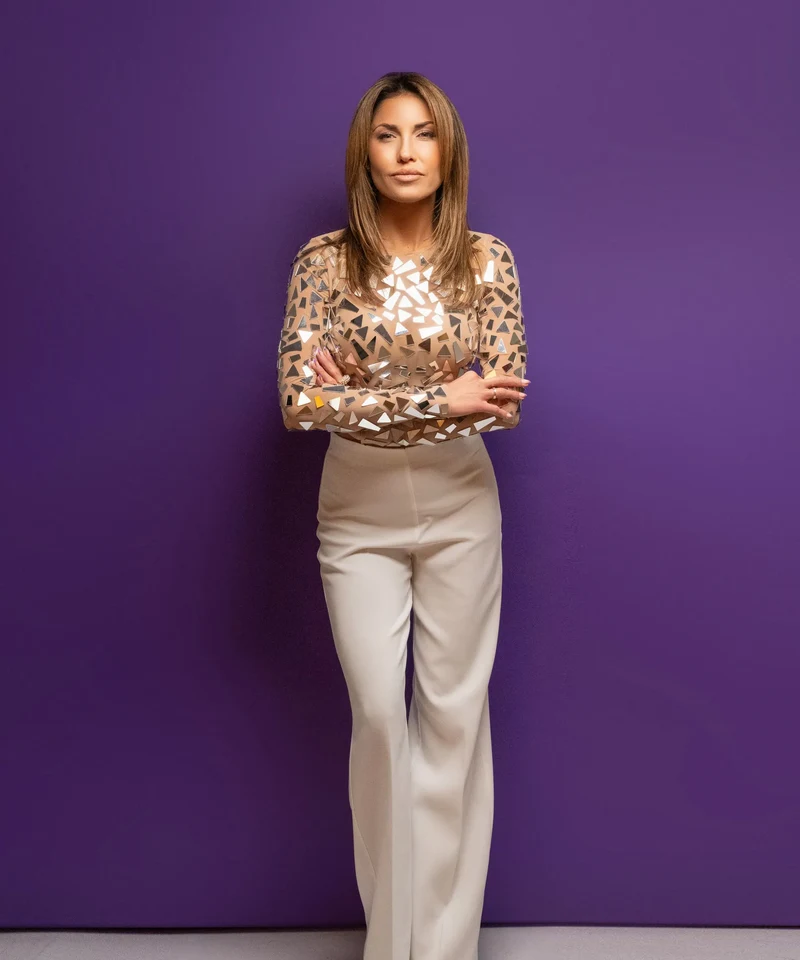
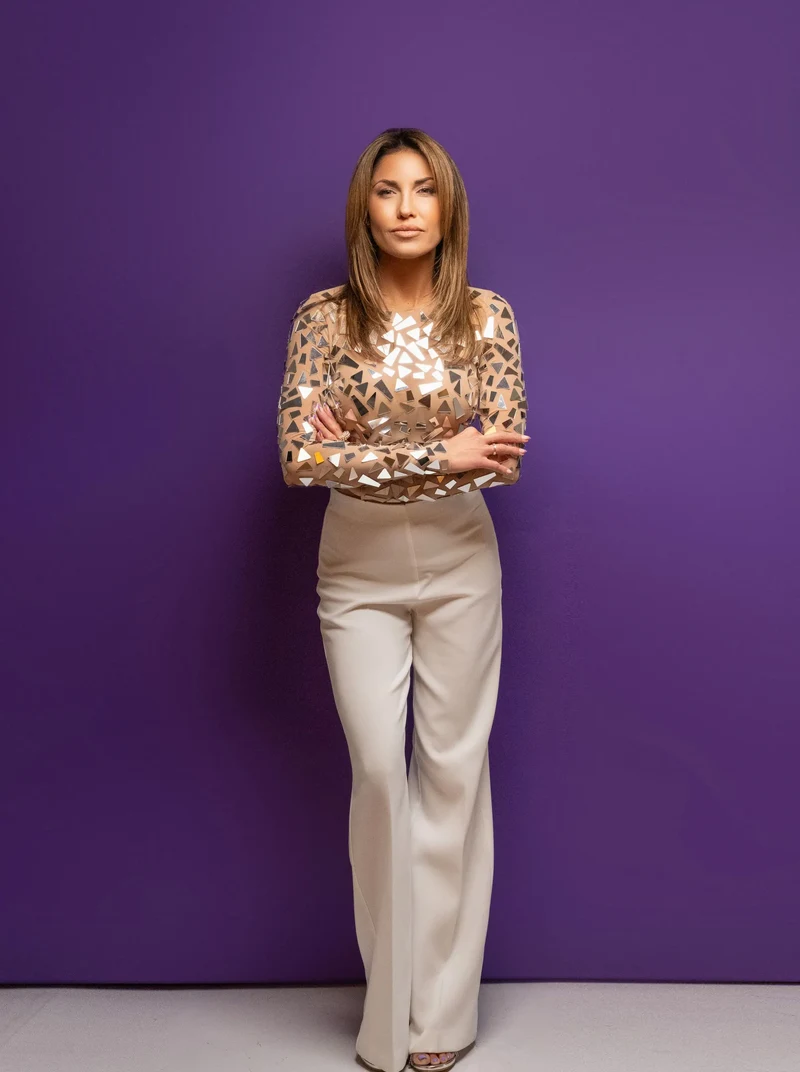
Refine evaluation results and responsive email

Changed region(s): [[0.375, 0.5312, 1.0, 1.0], [0.3438, 0.0625, 0.6562, 0.4688], [0.0, 0.8125, 0.4688, 1.0]]

diff --git a/src/lib/resultsEmailTemplate.ts b/src/lib/resultsEmailTemplate.ts
@@ -112,6 +112,9 @@ function sectionDetailHtml(section: EvaluatedSection, accentColor: string) {
   return `<table role="presentation" width="100%" cellpadding="0" cellspacing="0" style="margin-top:16px;border:1px solid #e3e0e5;border-radius:12px;background:#ffffff;box-shadow:0 12px 28px rgba(34,18,51,.1)">
     <tr>
       <td style="padding:20px 20px 16px;border-bottom:1px solid #eeeaf0">
+        <div class="mobile-section-badge" style="display:none;margin:0 0 16px;text-align:center">
+          <span style="display:inline-block;padding:7px 12px;border-radius:8px;background:${theme.background};color:${theme.color};font-size:10px;font-weight:700;letter-spacing:.04em;text-transform:uppercase">${escapeHtml(label)}</span>
+        </div>
         <table role="presentation" width="100%" cellpadding="0" cellspacing="0">
           <tr>
             <td width="52" valign="top" style="width:52px;padding-top:2px;vertical-align:top">
@@ -121,7 +124,7 @@ function sectionDetailHtml(section: EvaluatedSection, accentColor: string) {
               <h4 style="margin:0;color:#33185c;font-size:20px;font-weight:600;line-height:1.3">${escapeHtml(section.name)}</h4>
               <p style="margin:5px 0 0;color:#544b5a;font-size:14px;line-height:1.65">${escapeHtml(detailedSectionReminder[section.key])}</p>
             </td>
-            <td valign="top" style="width:1%;padding-left:12px;vertical-align:top;white-space:nowrap">
+            <td class="desktop-section-badge" valign="top" style="width:1%;padding-left:12px;vertical-align:top;white-space:nowrap">
               <span style="display:inline-block;padding:7px 10px;border-radius:8px;background:${theme.background};color:${theme.color};font-size:10px;font-weight:700;letter-spacing:.04em;text-transform:uppercase">${escapeHtml(label)}</span>
             </td>
           </tr>
@@ -288,7 +291,7 @@ function tapInBlockHtml(tapInUrl: string) {
 }
 
 function strategyBlockHtml(strategyUrl: string, portraitUrl: string) {
-  return `<table role="presentation" width="100%" cellpadding="0" cellspacing="0" style="margin-top:42px;background:#ffffff;box-shadow:0 14px 36px rgba(34,18,51,.16)">
+  return `<table role="presentation" width="100%" cellpadding="0" cellspacing="0" style="width:100%;table-layout:fixed;margin-top:42px;background:#ffffff;box-shadow:0 14px 36px rgba(34,18,51,.16)">
     <tr>
       <td class="strategy-copy" width="50%" valign="middle" style="width:50%;vertical-align:middle;text-align:left">
         <table role="presentation" width="100%" cellpadding="0" cellspacing="0">
@@ -304,8 +307,8 @@ function strategyBlockHtml(strategyUrl: string, portraitUrl: string) {
           </tr>
         </table>
       </td>
-      <td class="strategy-image" width="50%" valign="middle" background="${portraitUrl}" style="width:50%;vertical-align:middle;overflow:hidden;background-color:#321c58;background-image:url('${portraitUrl}');background-position:center;background-repeat:no-repeat;background-size:cover">
-        <img src="${portraitUrl}" width="340" height="440" alt="Ecko Marketing strategist" style="display:block;width:100%;max-width:none;height:100%;min-height:100%;object-fit:cover;object-position:center;border:0;outline:none;text-decoration:none" />
+      <td class="strategy-image" width="50%" valign="middle" align="center" style="width:50%;vertical-align:middle;text-align:center;overflow:hidden;background:#321c58">
+        <img src="${portraitUrl}" width="340" alt="Ecko Marketing strategist" style="display:inline-block;width:100%;max-width:none;height:auto;vertical-align:top;border:0;outline:none;text-decoration:none" />
       </td>
     </tr>
   </table>`;
@@ -404,9 +407,11 @@ export function buildResultsEmailHtml({
     <title>Your Full Marketing Pulse Evaluation</title>
     <style type="text/css">
       @import url('https://fonts.googleapis.com/css2?family=DM+Sans:wght@400;500;600;700&amp;family=Poppins:wght@400;500;600;700&amp;display=swap');
+      .strategy-image img { width:100% !important; max-width:100% !important; height:auto !important; }
       @media only screen and (max-width: 560px) {
         .strategy-copy, .strategy-image { display:block !important; width:100% !important; }
-        .strategy-image img { max-width:100% !important; height:auto !important; }
+        .mobile-section-badge { display:block !important; }
+        .desktop-section-badge { display:none !important; }
       }
     </style>
   </head>

diff --git a/src/app/ResultsPage.tsx b/src/app/ResultsPage.tsx
@@ -198,6 +198,7 @@ export default function ResultsPage({
   const [copiedEvaluationLink, setCopiedEvaluationLink] = useState(false);
   const [showSocialMenu, setShowSocialMenu] = useState(false);
   const [showFullResultsModal, setShowFullResultsModal] = useState(false);
+  const [fullResultsModalView, setFullResultsModalView] = useState<"form" | "confirmation">("form");
   const socialMenuRef = useRef<HTMLDivElement>(null);
 
   async function submitFullResults(event: React.FormEvent<HTMLFormElement>) {
@@ -231,6 +232,7 @@ export default function ResultsPage({
       const result = (await response.json()) as { error?: string };
       if (!response.ok) throw new Error(result.error || "Unable to send results.");
       setSubmitted(true);
+      setFullResultsModalView("confirmation");
       setShowFullResultsModal(true);
     } catch (error) {
       setSubmitError(
@@ -326,7 +328,11 @@ export default function ResultsPage({
     ];
     const evaluationShareCopy =
       "Take the Ecko Marketing Pulse Evaluation—a quick check-in to see what's working, what's building momentum, and what could use a little love.";
-    const openFullResultsModal = () => setShowFullResultsModal(true);
+    const openFullResultsModal = () => {
+      setFullResultsModalView("form");
+      setSubmitError("");
+      setShowFullResultsModal(true);
+    };
     const copyEvaluationLink = async () => {
       const shareUrl = new URL(window.location.href);
       shareUrl.search = "";
@@ -339,7 +345,11 @@ export default function ResultsPage({
       <main className="questionnaire-page results-page-minimal results-page-compact">
         <div className="results-content">
           <header className="results-header">
-            <h1>Good News: Your Marketing Has a Pulse!</h1>
+            <h1>
+              <span className="results-header__gold">Good News:</span>
+              <br />
+              Your Marketing Has a Pulse!
+            </h1>
           </header>
 
           <PulseGlanceCard counts={counts} />
@@ -603,7 +613,7 @@ export default function ResultsPage({
                     src="/images/ecko-marketing-logo.png"
                     alt="Ecko Marketing"
                   />
-                  {submitted ? (
+                  {fullResultsModalView === "confirmation" ? (
                     <div className="results-full-results-modal__confirmation" role="status">
                       <header>
                         <h2 id="full-results-modal-title">Your Full Evaluation Is on Its Way</h2>
@@ -625,7 +635,7 @@ export default function ResultsPage({
                       </a>
                     </div>
                   ) : (
-                    <>
+                    <div className="results-full-results-modal__form-view">
                       <header>
                         <h2 id="full-results-modal-title">See Your Full Evaluation</h2>
                       </header>
@@ -641,7 +651,7 @@ export default function ResultsPage({
                         <button className="questionnaire__continue" type="submit" disabled={submitting}>{submitting ? "Sending…" : "Email My Results"}</button>
                         {submitError && <p className="results-email-minimal__error" role="alert">{submitError}</p>}
                       </form>
-                    </>
+                    </div>
                   )}
                 </div>
                 <figure className="results-full-results-modal__portrait">
@@ -678,7 +688,11 @@ export default function ResultsPage({
       <div className="results-content">
         <header className="results-header">
           <p className="questionnaire__meta">Results</p>
-          <h1>Good News: Your Marketing Has a Pulse</h1>
+          <h1>
+            <span className="results-header__gold">Good News:</span>
+            <br />
+            Your Marketing Has a Pulse!
+          </h1>
           <p>
             A quick look at what&apos;s clicking, where there may be room to grow,
             and what your results could mean for your marketing right now.

diff --git a/src/app/V2EvaluationPage.tsx b/src/app/V2EvaluationPage.tsx
@@ -39,6 +39,7 @@ function QuestionVideo({
     if (!video) return;
     if (!active) {
       video.pause();
+      video.muted = true;
       return;
     }
 
@@ -145,7 +146,7 @@ function QuestionVideo({
   );
 }
 
-function VideoRail() {
+function VideoRail({ playbackEnabled }: { playbackEnabled: boolean }) {
   const [activeQuestion, setActiveQuestion] = useState(1);
   const [transitionPhase, setTransitionPhase] = useState<"idle" | "out" | "in">("idle");
   const [resultsPosition, setResultsPosition] = useState<CSSProperties | undefined>();
@@ -255,7 +256,7 @@ function VideoRail() {
                   src={video.src}
                   poster={video.poster}
                   questionId={videoId}
-                  active={activeQuestion === videoId}
+                  active={playbackEnabled && activeQuestion === videoId}
                 />
               ) : (
                 <span className="v2-video-card__media" aria-hidden="true">
@@ -279,9 +280,9 @@ function EvaluationIntro({ onStart }: { onStart: () => void }) {
         <div className="v2-evaluation-intro__heading">
           <div>
             <h1 id="evaluation-intro-title" className="questionnaire__title">
-              The Ecko
+              <span className="v2-evaluation-intro__title-dark">The Ecko</span>
               <br />
-              Marketing Pulse
+              <span className="v2-evaluation-intro__title-purple">Marketing Pulse</span>
               <br />
               <span className="v2-evaluation-intro__title-gold">Evaluation.</span>
             </h1>
@@ -367,7 +368,7 @@ export default function V2EvaluationPage() {
       <div
         className={`v2-evaluation-layout${showVideo ? "" : " v2-evaluation-layout--question-only"}`}
       >
-        <VideoRail />
+        <VideoRail playbackEnabled={showVideo} />
         <div className="v2-question-panel">
           {hasStarted ? (
             <Questionnaire

diff --git a/src/app/globals.css b/src/app/globals.css
@@ -800,7 +800,7 @@ body {
 }
 
 .questionnaire__title-highlight {
-  color: #33185c;
+  color: #c39f5b;
 }
 
 .questionnaire__instruction {
@@ -1818,6 +1818,14 @@ body {
   color: #c39f5b;
 }
 
+.v2-evaluation-intro__title-purple {
+  color: #7c4d9e;
+}
+
+.v2-evaluation-intro__title-dark {
+  color: #7c4d9e;
+}
+
 .v2-evaluation-intro__card {
   margin-top: 26px;
 }
@@ -2483,6 +2491,10 @@ body {
   line-height: 1.28;
 }
 
+.results-header__gold {
+  color: #c39f5b;
+}
+
 .results-header > p:not(.questionnaire__meta) {
   max-width: 620px;
   margin: 20px auto 0;
@@ -2524,7 +2536,7 @@ body {
 }
 
 .results-glance {
-  margin-top: 42px;
+  margin-top: 28px;
 }
 
 .results-glance-card {
@@ -3840,6 +3852,16 @@ body {
   text-align: center;
 }
 
+@media (min-width: 600px) {
+  .results-full-results-modal__confirmation {
+    margin-top: 90px;
+  }
+
+  .results-full-results-modal__form-view {
+    margin-top: 54px;
+  }
+}
+
 .results-full-results-modal__confirmation p {
   max-width: 390px;
   margin: 14px auto 0;
@@ -4257,8 +4279,24 @@ body {
 }
 
 .v2-question-panel .results-page-compact .results-header h1 {
-  font-size: 24px;
-  line-height: 1.3;
+  color: #7c4d9e;
+  font-family: var(--font-dm-sans), sans-serif;
+  font-size: 52px;
+  font-weight: 600;
+  letter-spacing: -0.03em;
+  line-height: 1.08;
+}
+
+@media (max-width: 967px) {
+  .v2-question-panel .results-page-compact .results-header h1 {
+    font-size: 42px;
+  }
+}
+
+@media (max-width: 599px) {
+  .v2-question-panel .results-page-compact .results-header h1 {
+    font-size: 38px;
+  }
 }
 
 .v2-question-panel .results-page-compact .results-category-row strong {
